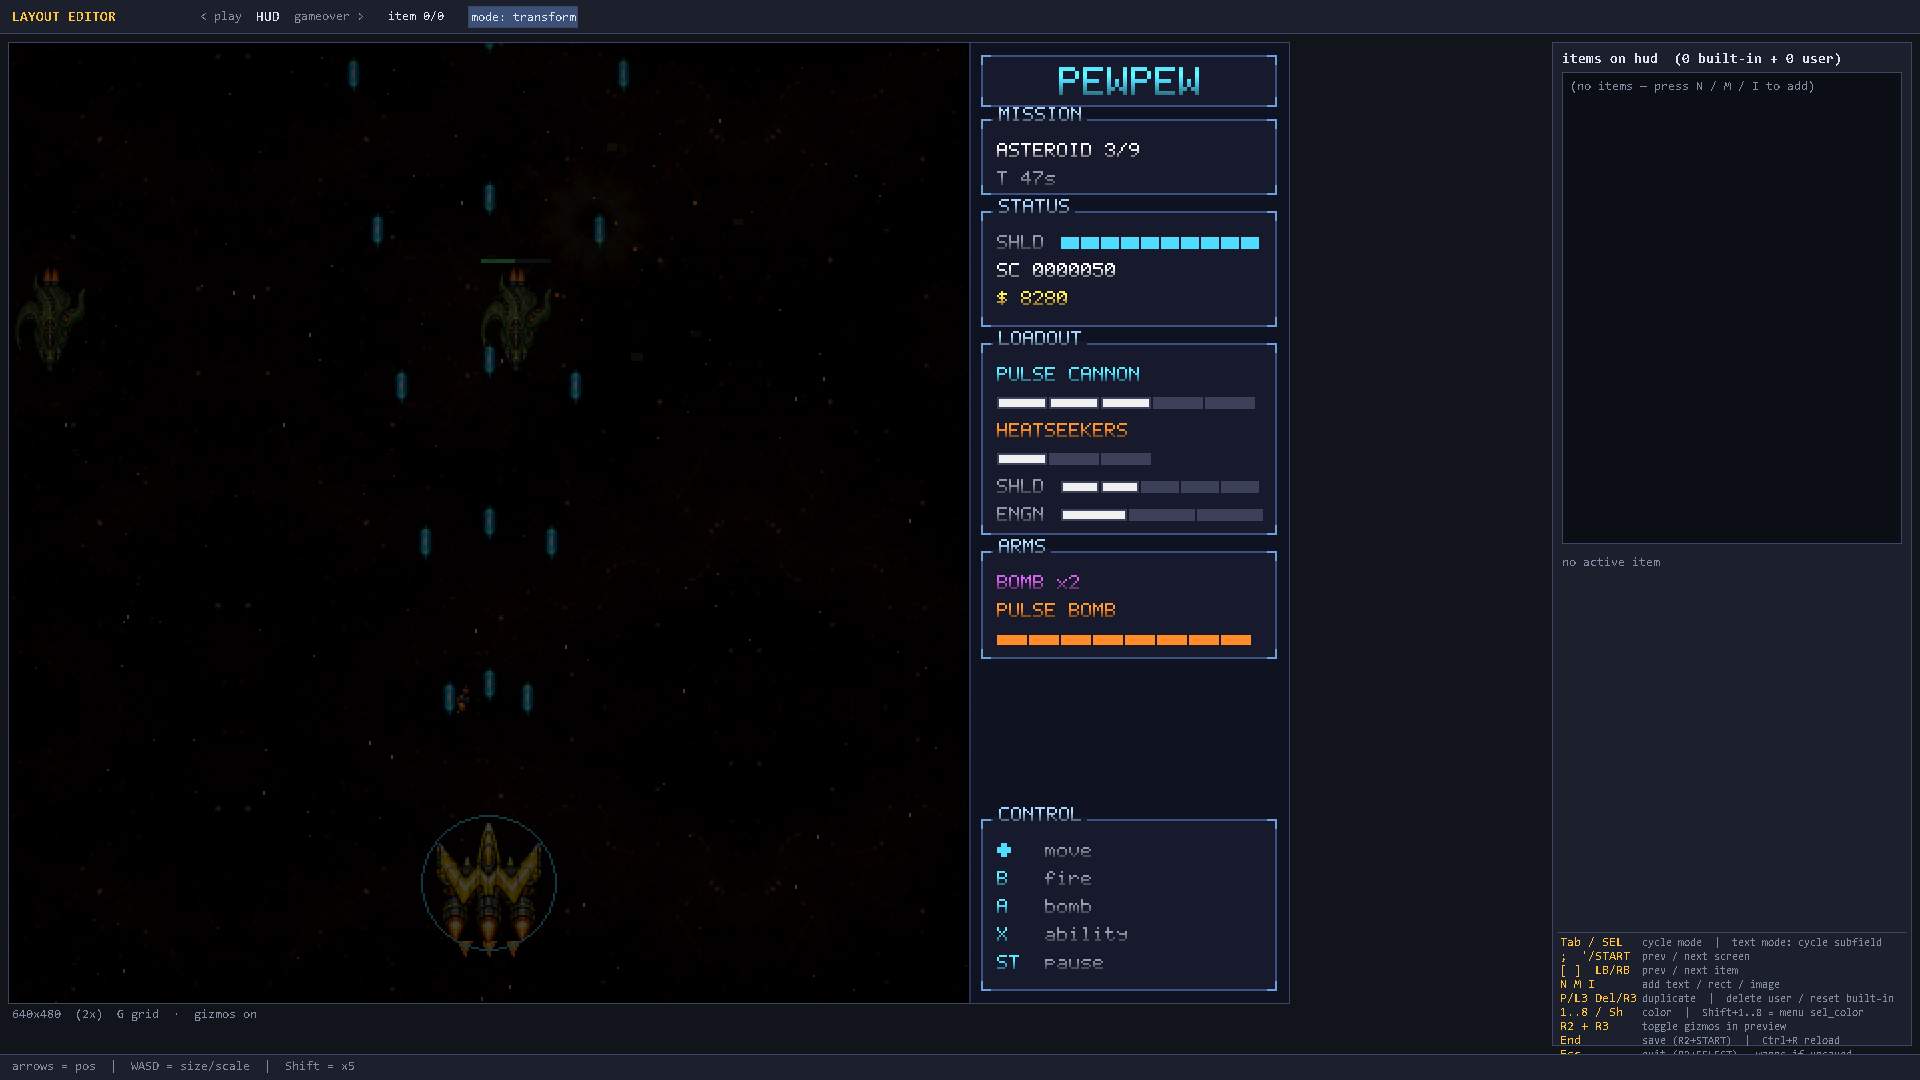
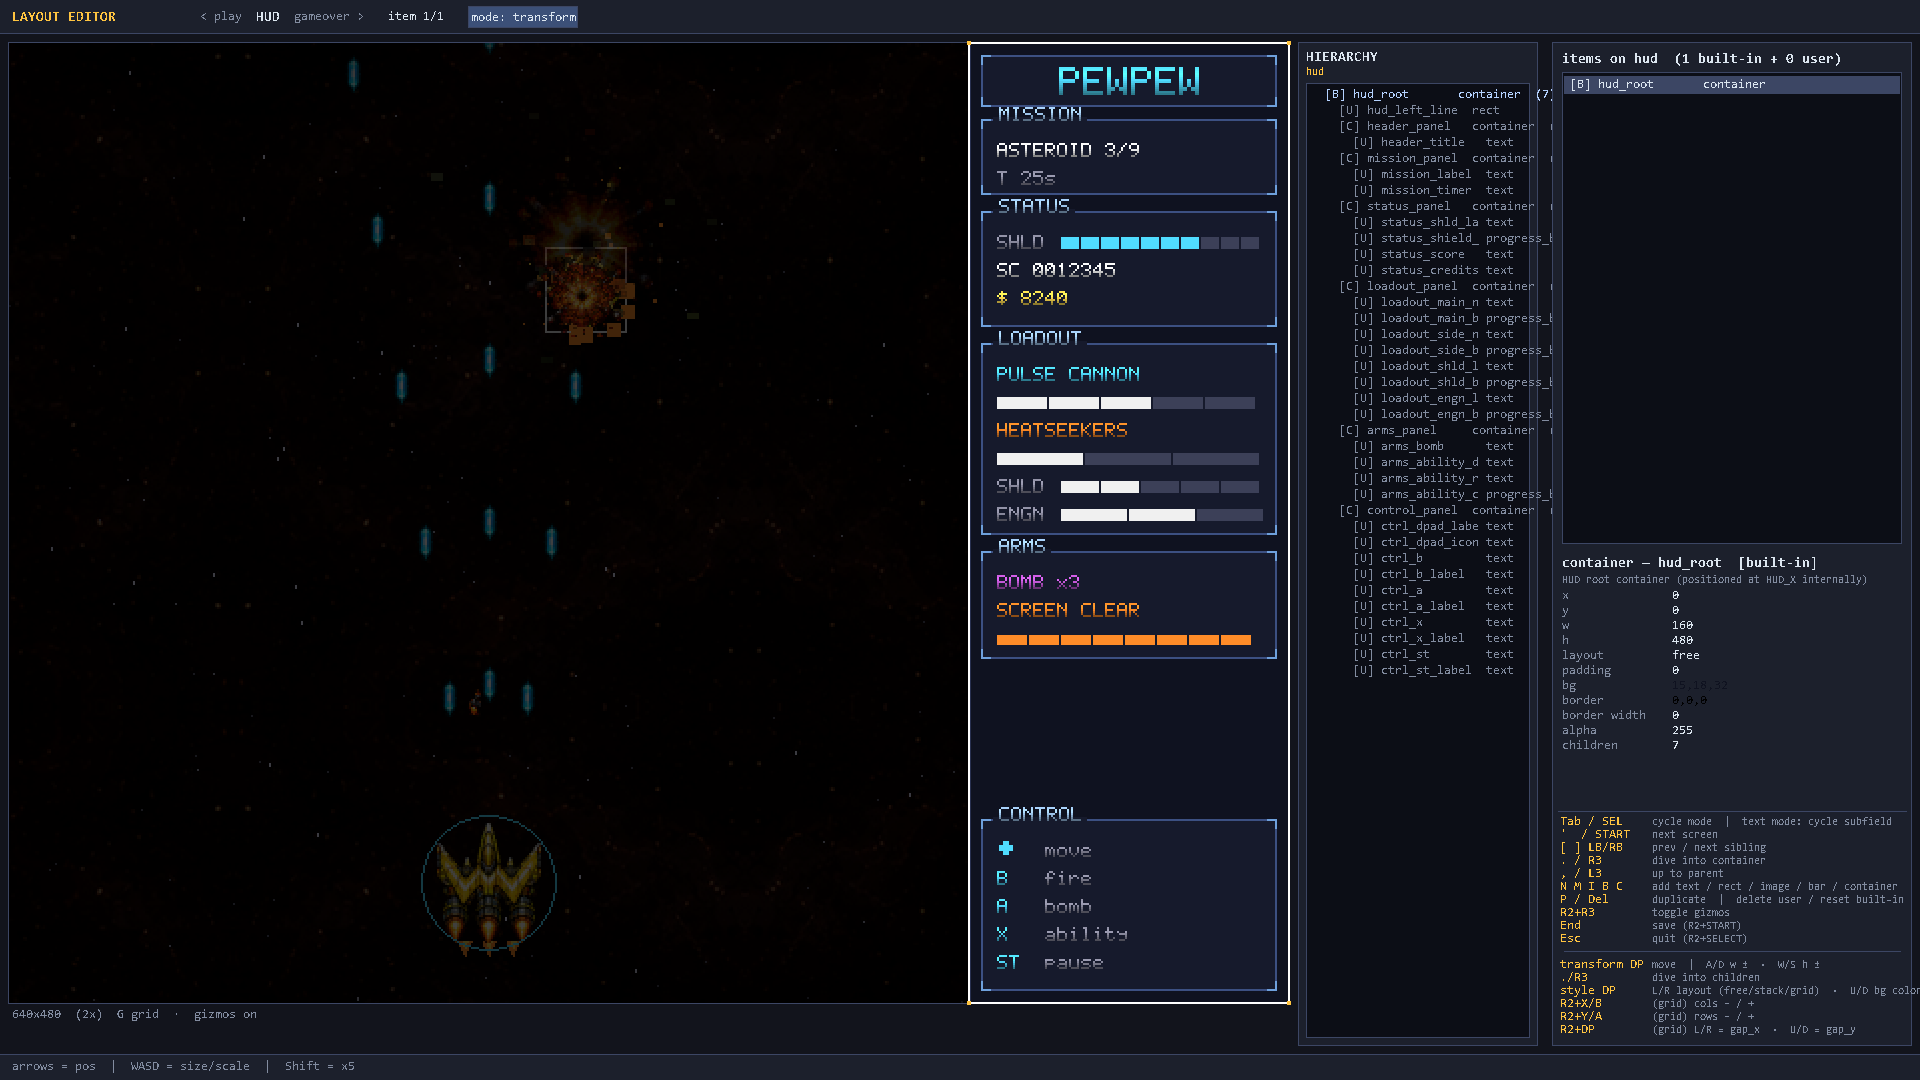
Hierarchy Phase 4: editor persists nested HUD edits; HUD-aware preview
Editor (_layout_editor.py):
  - dive() into a built-in container now eagerly materializes an
    override entry in layout.json with a deep-copy of the spec's
    children (stripped of _meta keys). Subsequent edits to nested
    children mutate the override and persist on save.
  - New _strip_meta(node) recursively removes _-prefixed keys
    (_label / _preview_options / _preview_cursor) before copying.
  - New _screen_render_offset(name) injects HUD_X into render +
    selection-box math so the HUD spec (HUD-local 0..160 coords) lands
    in the right strip of the editor's 640×480 preview.
  - active_global_offset includes the screen render offset; selection
    boxes for HUD descendants now wrap the actual on-screen pixels.
  - current_container_screen_pos() walks the ancestor chain +
    per-screen offset so the current-container outline lands on the
    real container border (was drawn at HUD-local coords before).

Engine (pewpew.py):
  - _resolve_var falls back to default when a {name} template
    reference isn't in template_vars (silent fallback). The editor
    preview can omit some live game vars without spamming the console.

Round-trip verified: dive hud_root → status_panel → status_score,
recolour to RED via palette 5, save, relaunch editor, value persists;
engine's resolved_layout_tree("hud") sees the override too.

Screenshots updated:
  - layout_editor_hud.png — HUD preview now in the right strip
[…]

diff --git a/_layout_editor.py b/_layout_editor.py
@@ -53,6 +53,7 @@ Item schema (one object per item in layout.json["screens"][<name>]["items"]):
   image: type, id, x, y, anchor, sprite (sprite name from art/sprites/),
          scale (float), alpha
 """
+import copy
 import json
 import os
 import sys
@@ -217,6 +218,31 @@ class HeldKey:
     def __init__(self, action, now_ms):
         self.action = action
         self.next_fire_ms = now_ms + INITIAL_REPEAT_MS
+
+
+def _screen_render_offset(screen_name):
+    """Top-level item coords on this screen render with this (x, y) offset.
+    Lets the HUD spec stay in HUD-local coords (0..HUD_W) while the
+    editor's full-screen preview lands it in the right strip. The engine
+    achieves the same result by blitting a HUD-local surface at HUD_X."""
+    if screen_name == "hud":
+        return (480, 0)   # HUD_X
+    return (0, 0)
+
+
+def _strip_meta(node):
+    """Recursive deep-copy of dicts/lists with `_`-prefixed keys removed.
+    Used when materializing override entries from spec defaults — the
+    `_label` / `_preview_options` / etc. fields are editor-only metadata
+    and shouldn't pollute layout.json once the override is saved."""
+    if isinstance(node, dict):
+        return {k: _strip_meta(v) for k, v in node.items()
+                if not (isinstance(k, str) and k.startswith("_"))}
+    if isinstance(node, list):
+        return [_strip_meta(x) for x in node]
+    if isinstance(node, tuple):
+        return tuple(_strip_meta(x) for x in node)
+    return node
 
 
 def _fmt_val(v):
@@ -435,17 +461,27 @@ class Editor:
     # ---- tree navigation -------------------------------------------------
     def dive(self):
         """If the active item is a container, push it onto the nav stack
-        and reset item_idx to the first child. No-op for leaves."""
+        and reset item_idx to the first child. For BUILT-IN containers we
+        eagerly materialize an override with a deep-copy of the spec's
+        children so subsequent edits land in the override (and persist to
+        layout.json on save) instead of silently mutating LAYOUT_ELEMENTS
+        in memory. `_`-prefixed metadata fields are stripped from the
+        copy to keep the saved file clean."""
         merged = self.active_merged()
         if merged is None:
             return False
         if merged.get("type") != "container" and "children" not in merged:
             return False
-        handle, kind, _ = self.active_handle(create=True)
+        handle, kind, builtin = self.active_handle(create=True)
         if handle is None:
             return False
         if handle.get("type") != "container":
             return False
+        if (kind == "builtin" and builtin is not None
+                and "children" not in handle):
+            spec_children = builtin.get("children") or []
+            if spec_children:
+                handle["children"] = _strip_meta(spec_children)
         children = handle.setdefault("children", [])
         self.container_stack.append((handle, self.item_idx))
         self.item_idx = 0
@@ -504,10 +540,12 @@ class Editor:
     def active_global_offset(self):
         """(gx, gy) world offset to add to a current-level item's local
         x/y so the editor can draw its selection box in screen-space.
-        Only `free` layouts accumulate offsets — stack/grid auto-position
-        children, so the editor returns None and the selection box for
-        children of such a container is omitted."""
-        gx = gy = 0
+        Includes the per-screen render offset so HUD-local specs land in
+        the right strip. Only `free` layouts accumulate offsets — stack/
+        grid auto-position children, so the editor returns None and the
+        selection box for children of such a container is omitted."""
+        sox, soy = _screen_render_offset(self.current_screen)
+        gx, gy = sox, soy
         for cont, _ in self.container_stack:
             layout = (cont.get("layout") or "free").lower()
             if layout != "free":
@@ -515,6 +553,28 @@ class Editor:
             pad = int(cont.get("padding", 0))
             gx += int(cont.get("x", 0)) + pad
             gy += int(cont.get("y", 0)) + pad
+        return gx, gy
+
+    def current_container_screen_pos(self):
+        """On-screen (x, y) of the current container's top-left border.
+        Sum of screen offset + every ancestor container's x/y/padding +
+        the current container's own x/y (without its OWN padding — the
+        outline wraps the border, not the padded inner area)."""
+        if not self.container_stack:
+            return None
+        sox, soy = _screen_render_offset(self.current_screen)
+        gx, gy = sox, soy
+        n = len(self.container_stack)
+        for i, (c, _) in enumerate(self.container_stack):
+            layout = (c.get("layout") or "free").lower()
+            if layout != "free":
+                return None
+            gx += int(c.get("x", 0))
+            gy += int(c.get("y", 0))
+            if i < n - 1:   # add padding for all ancestors but not self
+                pad = int(c.get("padding", 0))
+                gx += pad
+                gy += pad
         return gx, gy
 
     def full_tree_rows(self):
@@ -1330,13 +1390,35 @@ def render_preview(ed):
     pp = ed._pewpew
     # Placeholder values for {score}, {best}, etc. in editor preview so
     # users can see what the interpolated text will look like in-game.
+    # Mirrors what hud_draw passes at runtime so the editor preview shows
+    # the HUD with realistic placeholder values. Extend when you add a
+    # new {name} placeholder anywhere in a built-in spec.
     preview_vars = {
+        # Generic
         "score": 12345, "best": 145600, "credits": 8240, "time": 25,
-        "level": "ASTEROID 3/9", "shield_ratio": 0.7, "main_lvl_ratio": 0.6,
-        "side_lvl_ratio": 0.5, "bombs": 3, "ability_name": "SCREEN CLEAR",
-        "ability_cd_ratio": 0.8,
+        # HUD chrome vars
+        "level_short": "ASTEROID 3/9",
+        "main_name": "PULSE CANNON", "main_lvl": 3, "main_max": 5,
+        "main_lvl_color": [240, 240, 240],
+        "side_name": "HEATSEEKERS", "side_lvl": 1, "side_max": 3,
+        "side_lvl_color": [240, 240, 240], "side_visible": True,
+        "shield_lvl": 2, "shield_max": 5,
+        "shield_lvl_color": [240, 240, 240],
+        "engine_lvl": 2, "engine_max": 3,
+        "engine_lvl_color": [240, 240, 240],
+        "bombs": 3, "ability_name": "SCREEN CLEAR",
+        # HUD dynamic vars
+        "shield_ratio": 0.7,
+        "ability_ready": True,
+        "ability_cd_ratio": 1.0,
+        "ability_cd_color": [255, 140, 40],
     }
+    sox, soy = _screen_render_offset(ed.current_screen)
     for _kind, it in ed.all_items_merged():
+        if sox or soy:
+            it = dict(it)
+            it["x"] = int(it.get("x", 0)) + sox
+            it["y"] = int(it.get("y", 0)) + soy
         try:
             pp._layout_draw_item(surf, it, ed.fonts, sprite_assets, preview_vars)
         except Exception as e:
@@ -1461,11 +1543,12 @@ def draw_preview(screen, ed, preview_rect, font_small):
                                      (rx, ry + rh), (rx + rw, ry + rh)):
                         pygame.draw.rect(screen, ACCENT, (cx_ - 2, cy_ - 2, 4, 4))
         # Always outline the current-container itself so the user knows
-        # where they are.
+        # where they are — positioned via the ancestor chain + per-screen
+        # render offset (so HUD nested containers land in the HUD strip).
         cont = ed.current_container()
-        if cont is not None:
-            cx_ = int(cont.get("x", 0))
-            cy_ = int(cont.get("y", 0))
+        cpos = ed.current_container_screen_pos()
+        if cont is not None and cpos is not None:
+            cx_, cy_ = cpos
             cw_ = max(1, int(cont.get("w", 1)))
             ch_ = max(1, int(cont.get("h", 1)))
             rx = ox + int(cx_ * scale)

diff --git a/pewpew.py b/pewpew.py
@@ -4502,14 +4502,17 @@ def _layout_draw_image(surf, it, assets):
 def _resolve_var(val, template_vars, default):
     """Type-preserving template lookup. If `val` is the literal "{name}"
     reference, return template_vars[name] (a list / int / float survives
-    intact). Otherwise return val. Used for progress_bar fields that need
-    direct values, not str(format()) coercions."""
+    intact). If the key isn't in template_vars, fall back to `default`
+    (silently — beats spamming the console with KeyErrors when the editor
+    previews a screen without the engine's full template_vars dict).
+    Otherwise return val unchanged."""
     if (isinstance(val, str) and len(val) >= 3
             and val.startswith("{") and val.endswith("}")
             and "{" not in val[1:-1]):
         key = val[1:-1]
         if template_vars and key in template_vars:
             return template_vars[key]
+        return default
     return val if val is not None else default
 
 